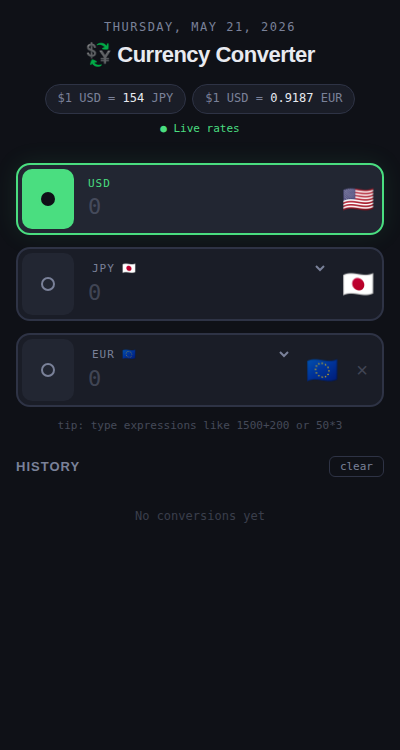
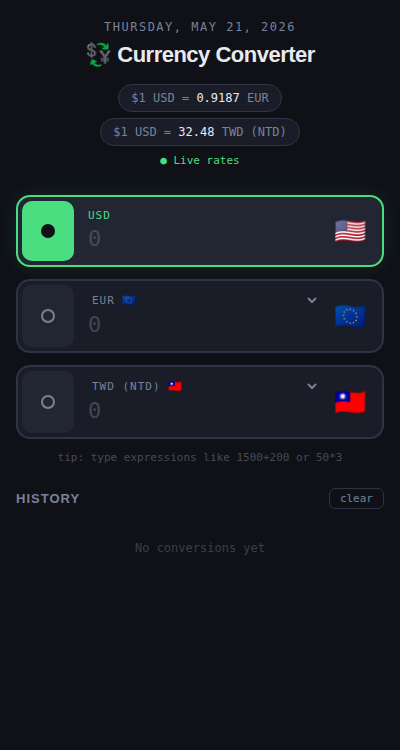
Flag tap opens currency picker; long-press removes 3rd row
- Tapping the flag on a swappable row now opens the native currency
  select picker (showPicker with click fallback)
- Removed the inline × button so all three row flags stay perfectly
  aligned
- Long-pressing the 3rd row for 600ms removes it; the row dims during
  the hold and pops off on release of the timer

https://claude.ai/code/session_01QSraBCDZNVPMkzWZzk1Yyw

diff --git a/tools/currency-universal.html b/tools/currency-universal.html
@@ -107,7 +107,7 @@
       border: 2px solid var(--border);
       border-radius: var(--radius);
       padding: 4px;
-      transition: border-color 0.25s, box-shadow 0.25s, background 0.25s;
+      transition: border-color 0.25s, box-shadow 0.25s, background 0.25s, opacity 0.25s, transform 0.25s;
     }
 
     .currency-row.active {
@@ -209,28 +209,24 @@
     .flag-area {
       display: flex;
       align-items: center;
-      padding-right: 4px;
+      padding-right: 12px;
       font-size: 26px;
       flex-shrink: 0;
     }
 
-    .remove-btn {
-      display: flex;
-      align-items: center;
-      justify-content: center;
-      padding: 0 10px 0 4px;
-      border: none;
-      background: none;
-      color: var(--text-dim);
+    /* Flag is tappable on swappable rows to open the currency picker */
+    .currency-row:not([data-currency="USD"]) .flag-area {
       cursor: pointer;
-      font-size: 20px;
-      flex-shrink: 0;
-      opacity: 0.4;
-      transition: opacity 0.2s;
-      line-height: 1;
+      user-select: none;
+      -webkit-user-select: none;
     }
 
-    .remove-btn:hover { opacity: 1; }
+    /* Long-press feedback on removable row */
+    .currency-row.row-pressing {
+      opacity: 0.45;
+      transform: scale(0.97);
+      transition: opacity 0.08s, transform 0.08s !important;
+    }
 
     /* Add currency button */
     .add-currency-btn {
@@ -511,9 +507,7 @@
         return `<option value="${c.code}"${c.code === code ? ' selected' : ''}${inUse ? ' disabled' : ''}>${c.label} ${c.flag}</option>`;
       }).join('');
 
-      const removeBtnHTML = canRemove
-        ? `<button class="remove-btn" aria-label="Remove currency">×</button>`
-        : '';
+      if (canRemove) row.dataset.removable = 'true';
 
       row.innerHTML = `
         <button class="activate-btn" aria-label="Activate ${cfg.label} input"></button>
@@ -522,7 +516,6 @@
           <input class="currency-input" type="text" inputmode="text" placeholder="0" data-currency="${code}" />
         </div>
         <div class="flag-area">${cfg.flag}</div>
-        ${removeBtnHTML}
       `;
       return row;
     }
@@ -533,7 +526,6 @@
         const activateBtn = row.querySelector('.activate-btn');
         const input = row.querySelector('.currency-input');
         const sel = row.querySelector('.currency-select');
-        const removeBtn = row.querySelector('.remove-btn');
 
         activateBtn.addEventListener('click', () => activate(currency));
         input.addEventListener('focus', () => setActive(currency));
@@ -571,10 +563,45 @@
           sel.addEventListener('change', () => {
             onSlotChange(parseInt(sel.dataset.slot), sel.value);
           });
+
+          // Tapping the flag opens the currency picker
+          const flagArea = row.querySelector('.flag-area');
+          if (flagArea) {
+            flagArea.addEventListener('click', () => {
+              setActive(currency);
+              try { sel.showPicker(); } catch { sel.click(); }
+            });
+          }
         }
 
-        if (removeBtn) {
-          removeBtn.addEventListener('click', () => removeSlot());
+        // Long-press on the removable (3rd) row to remove it
+        if (row.dataset.removable) {
+          let pressTimer = null;
+          let pressOrigin = null;
+
+          row.addEventListener('pointerdown', (e) => {
+            pressOrigin = { x: e.clientX, y: e.clientY };
+            row.classList.add('row-pressing');
+            pressTimer = setTimeout(() => {
+              row.classList.remove('row-pressing');
+              removeSlot();
+            }, 600);
+          });
+
+          const cancelPress = () => {
+            clearTimeout(pressTimer);
+            row.classList.remove('row-pressing');
+            pressOrigin = null;
+          };
+
+          row.addEventListener('pointerup', cancelPress);
+          row.addEventListener('pointercancel', cancelPress);
+          row.addEventListener('pointermove', (e) => {
+            if (!pressOrigin) return;
+            const d = Math.hypot(e.clientX - pressOrigin.x, e.clientY - pressOrigin.y);
+            if (d > 8) cancelPress();
+          });
+          row.addEventListener('contextmenu', e => e.preventDefault());
         }
       });
     }
